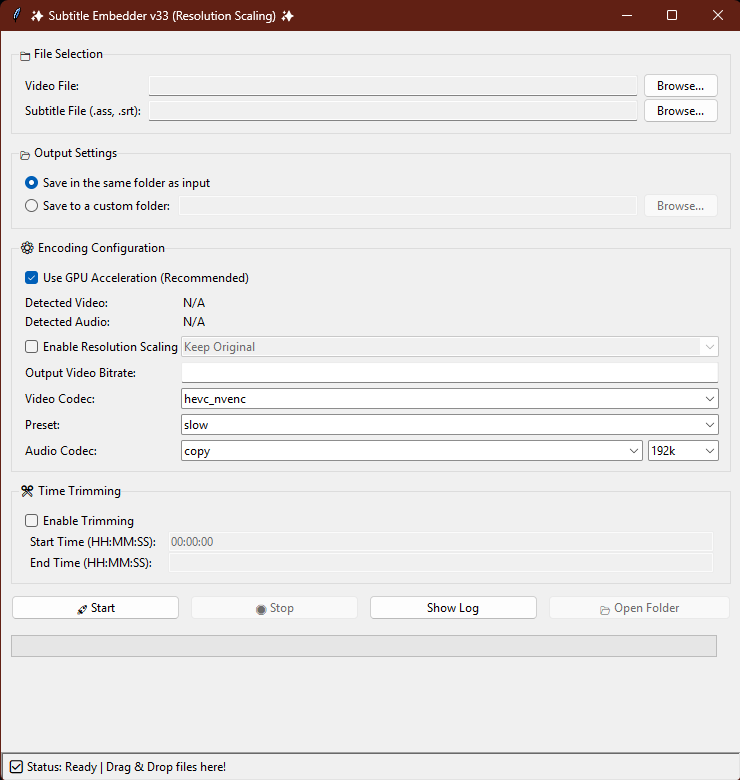
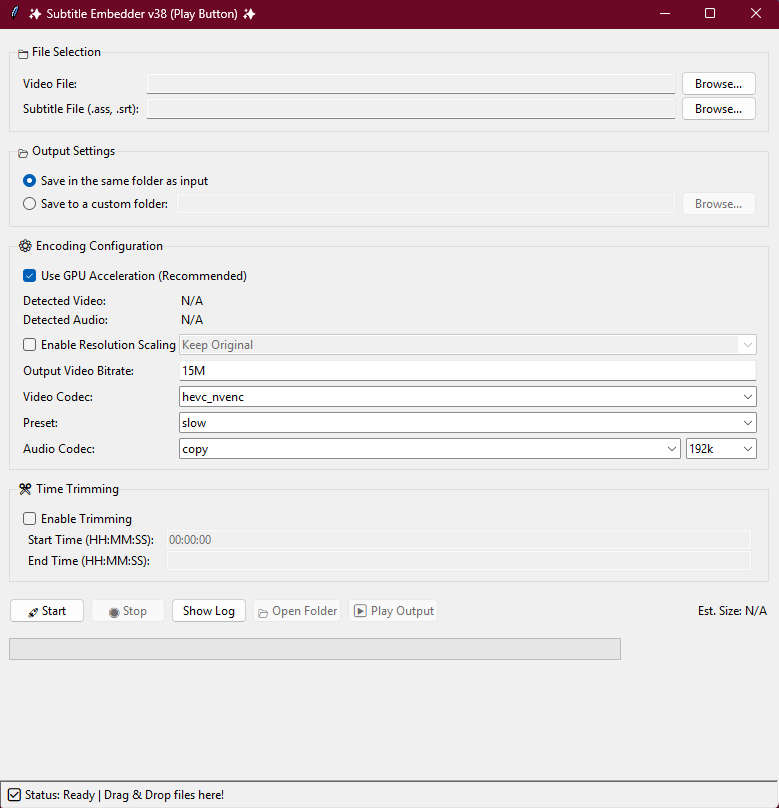
Update readme and screenshit new GUI

diff --git a/README.md b/README.md
@@ -1,77 +1,76 @@
-# Sub-Zero Encoder ✨
+<p align="center">
+  <img src="https://raw.githubusercontent.com/tonzsm/Sub-Zero-Encoder/main/images/logo.png" width="200" alt="Sub-Zero Encoder Logo">
+</p>
 
-**The ultimate GUI for embedding and trimming subtitles with FFmpeg.**
+<h1 align="center">Sub-Zero Encoder</h1>
 
-Sub-Zero Encoder is a user-friendly graphical interface for FFmpeg, designed to make hardsubbing subtitles a simple and powerful experience. Whether you're a professional subtitler or a hobbyist, this tool streamlines the entire process of embedding, trimming, and encoding your videos with pixel-perfect subtitles.
+<p align="center">
+  A user-friendly GUI for hardcoding subtitles into video files, built with Python and powered by the mighty FFmpeg.
+</p>
+
+<p align="center">
+  <a href="https://github.com/tonzsm/Sub-Zero-Encoder/releases/latest"><img alt="Latest Release" src="https://img.shields.io/github/v/release/tonzsm/Sub-Zero-Encoder?style=for-the-badge&logo=github"></a>
+  <a href="https://github.com/tonzsm/Sub-Zero-Encoder/blob/main/LICENSE"><img alt="License" src="https://img.shields.io/github/license/tonzsm/Sub-Zero-Encoder?style=for-the-badge"></a>
+</p>
+
+---
+
+## ✨ Features
+
+Sub-Zero Encoder is packed with features designed to make your workflow as smooth as possible.
+
+*   **Intuitive UI:** A clean and simple graphical user interface.
+*   **Drag & Drop:** Full drag and drop support for both video and subtitle files.
+*   **Auto-Subtitle Finder:** Automatically detects and loads matching `.ass` or `.srt` subtitle files.
+*   **GPU Acceleration:** Utilizes NVIDIA NVENC for blazing-fast encoding speeds.
+*   **Standalone & Portable:** Comes bundled with FFmpeg. No external dependencies or installation required. Just extract and run!
+*   **Resolution Scaling:** Easily downscale your videos to standard resolutions like 1080p or 720p.
+*   **Stable Time Trimming:** Encode only the specific segments you need. The output is **guaranteed** to have perfect audio and subtitle synchronization.
+*   **Live Pre-computation:**
+    *   **ETA:** Displays the estimated time remaining during the encoding process.
+    *   **Estimated File Size:** See the final output file size in real-time as you adjust your settings.
+*   **Convenient Output Handling:**
+    *   **Open Folder:** Instantly opens the destination folder.
+    *   **Play Output:** Plays the finished video with your default media player directly from the app.
+
+## 🖼 Screenshot
 
 ![Screenshot of Sub-Zero Encoder](https://github.com/tonzsm/Sub-Zero-Encoder/blob/main/Sub-Zero-Encoder-GUI.png)
 
----
-
-## 📥 Downloads
-
-The latest stable and ready-to-use version of the application is available on the **[Releases Page](https://github.com/tonzsm/Sub-Zero-Encoder/releases)**.
-
-Just download the `.zip` file from the latest release, extract it, and run the `.exe` file. No installation needed!
-
----
-
-## 🔥 Key Features
-
-*   **Seamless Subtitle Integration:** Burn `.ass` and `.srt` subtitles directly into your video files, creating a single, easy-to-share file.
-*   **Precision Time Trimming:** Easily trim the start and end times of your video. The tool intelligently handles both video and audio streams to ensure perfect synchronization.
-*   **High-Performance Encoding:**
-    *   **GPU Acceleration:** Utilizes NVIDIA's NVENC (h264/hevc) for lightning-fast encoding.
-    *   **CPU Encoding:** Supports high-quality software encoding with `libx264` and `libx265`.
-*   **Smart File Analysis:**
-    *   Automatically detects video and audio properties (bitrate, resolution, codecs) to provide intelligent default settings.
-    *   Automatically finds matching subtitle files (`.ass` or `.srt`) in the same folder as your video.
-*   **Advanced Audio Control:**
-    *   Choose to **copy** the original audio for perfect quality when not trimming.
-    *   Re-encode audio to popular formats like **AAC** or **AC3** with adjustable bitrate.
-*   **Resolution Scaling:** Downscale your 4K videos to 1440p, 1080p, or 720p to save space and ensure compatibility.
-*   **Intuitive User Interface:**
-    *   Drag & Drop support for video and subtitle files.
-    *   Real-time progress bar and status updates.
-    *   A detailed FFmpeg log window for power users.
-
----
-
 ## 🚀 Getting Started
 
-### For Users
-1.  Go to the **[Releases Page](https://github.com/tonzsm/Sub-Zero-Encoder/releases)**.
-2.  Download the `Sub-Zero-Encoder.zip` file from the latest release.
-3.  Extract the zip file.
-4.  Run `Sub-Zero-Encoder.exe`. That's it!
+### Prerequisites
+*   Windows Operating System (7, 10, 11).
+*   An **NVIDIA GPU** is required to use the GPU Acceleration mode. The application will still function in CPU mode without it.
 
-### For Developers
-1.  **Ensure FFmpeg is installed:** You must have a working version of FFmpeg and FFprobe in your system's PATH, **OR** place `ffmpeg.exe` and `ffprobe.exe` inside a `bin` folder in the project directory.
-2.  Clone the repository:
-    ```bash
-    git clone https://github.com/tonzsm/Sub-Zero-Encoder.git
-    ```
-3.  Install Python libraries:
-    ```bash
-    pip install tkinterdnd2 ffmpeg-python
-    ```
-4.  Run the application:
-    ```bash
-    python your_script_name.py
-    ```
+### Installation & Usage
+1.  Go to the [**Releases**](https://github.com/tonzsm/Sub-Zero-Encoder/releases) page.
+2.  Download the latest `.zip` archive (e.g., `Sub-Zero-Encoder.zip`).
+3.  Extract the archive to a folder of your choice.
+4.  Run `Sub-Zero-Encoder.exe`.
+5.  Drag and drop your files or use the "Browse..." buttons.
+6.  Adjust your settings and click **Start**!
 
----
+## ⚠ Known Issues
 
-## 🛠 Built With
+*   **Missing Fonts:** The `.ass` subtitle format sometimes requires specific fonts to be installed on your system. If a required font is not found, FFmpeg may throw an error or substitute the font, potentially affecting the subtitle's appearance. **Please ensure you have the necessary fonts installed for best results.**
 
-*   **Python 3**
-*   **Tkinter** (with `tkinterdnd2` for Drag & Drop)
-*   **FFmpeg**
-*   **ffmpeg-python** (for file analysis)
-*   **PyInstaller** (for building the executable)
+## 🗺 Roadmap
 
----
+This project is actively developed. Here are some features planned for the future:
+- [ ] Batch processing / Queue system
+- [ ] Soft-subtitle support (for MKV/MP4)
+- [ ] Audio/Subtitle track selection for files with multiple tracks
+- [ ] Configuration profiles (Save/Load settings)
 
-## 📜 License
+## ❤ Credits
 
-This project is licensed under the MIT License - see the `LICENSE.md` file for details.
+This application wouldn't be possible without these amazing open-source projects:
+*   **FFmpeg:** The core of all video and audio processing.
+*   **Python:** The programming language used to build the app.
+*   **Tkinter / tkinterdnd2:** For the graphical user interface.
+*   **ffmpeg-python:** A helpful Python wrapper for FFmpeg.
+
+## 📄 License
+
+This project is licensed under the MIT License - see the [LICENSE](LICENSE) file for details.
